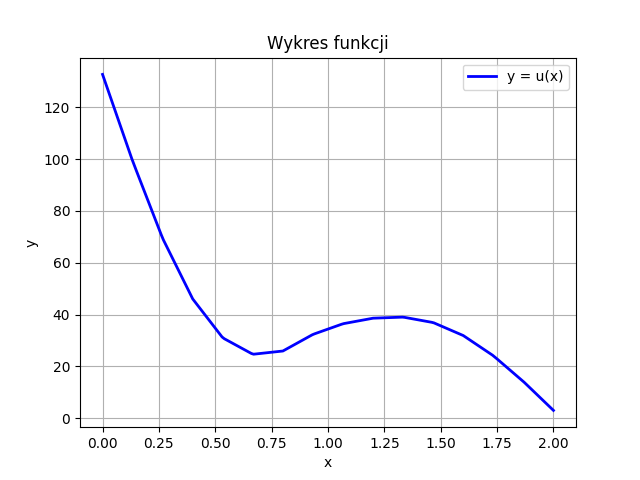
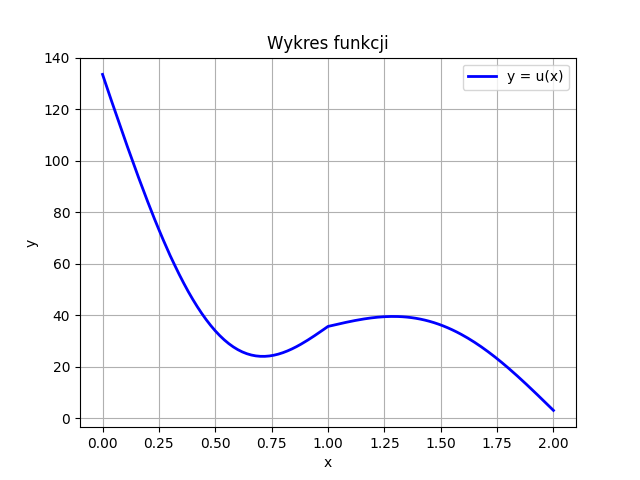
Final update in code (for big N)

diff --git a/kod_do_projektu.py b/kod_do_projektu.py
@@ -122,12 +122,19 @@ def E(x):
     if x<=1: return 2
     return 6
 
+def x_i(i):
+    if i<0: return 0
+    if i>N: return 2
+    return 2/N * i
+
 def B(i, j): 
-    y, err = integration(lambda x: E(x)*e_prim(i,x)*e_prim(j,x), 0, 2, limit = 100)
+    if abs(i-j) >= 2: return 0
+    if abs(i-j) == 1: y = integration(lambda x: E(x)*e_prim(i,x)*e_prim(j,x), min(x_i(i), x_i(j)), max(x_i(i), x_i(j)))[0]
+    if i==j: y = integration(lambda x: E(x)*e_prim(i,x)*e_prim(j,x), min(x_i(i-1), x_i(j-1)), max(x_i(i+1), x_i(j+1)))[0]
     return 4*e(i, 0)*e(j, 0) - y
     
 def L(i):
-    y, err = integration(lambda x: e(i, x) * sin(pi * x), 0, 2, limit = 100)
+    y = integration(lambda x: e(i, x) * sin(pi * x), x_i(i-1), x_i(i+1))[0]
     return 8 * e(i, 0) + 1000 * y
 
 def final_result(A, x):
@@ -165,8 +172,4 @@ def show_plot():
 
 if __name__ == '__main__':
     get_N()
-    # z testowania:
-    # program najlepiej działa dla N <= 16
-    # zaczyna robić dziwne rzeczy dla N >= 23
-    # zaczyna wywalać błąd dla N >= 28
     show_plot()
